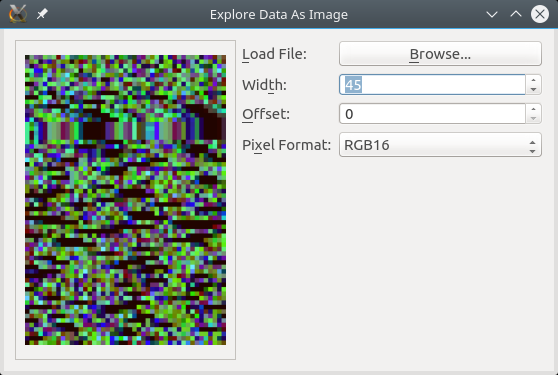
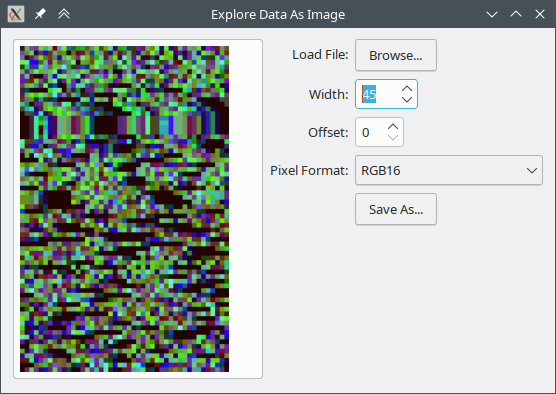
Add "Save As..." button

diff --git a/pixmap_prober.py b/pixmap_prober.py
@@ -62,6 +62,7 @@ class MainWin(QWidget, Ui_ImgExperimentDialog):
         self.raw_data = b''
         self.pixmap = QPixmap()
         self.btn_browse.clicked.connect(self.cb_browse)
+        self.btn_save.clicked.connect(self.cb_save)
 
         self.spin_width.valueChanged.connect(self.cb_update_img)
         self.spin_offset.valueChanged.connect(self.cb_update_img)
@@ -74,6 +75,7 @@ class MainWin(QWidget, Ui_ImgExperimentDialog):
             self.spin_width.setEnabled(True)
             self.spin_offset.setEnabled(True)
             self.combo_format.setEnabled(True)
+            self.btn_save.setEnabled(True)
             with open(fname[0], 'rb') as fobj:
                 self.raw_data = fobj.read()
                 self.cb_update_img(reset_width=True)
@@ -101,6 +103,13 @@ class MainWin(QWidget, Ui_ImgExperimentDialog):
             self.img_display.setPixmap(pix.scaled(
                 self.img_display.size(),
                 Qt.KeepAspectRatio, Qt.SmoothTransformation))
+
+    def cb_save(self):
+        """Callback for the Save button"""
+        fname = QFileDialog.getSaveFileName(self, "Save Image As...", "",
+            "PNG (*.png)")
+        if fname and fname[0]:
+            self.pixmap.save(fname[0], "PNG")
 
     def cb_update_img(self, event=None, reset_width=False):
         """Called by anything which changes how the bytes get rendered"""

diff --git a/mainwin.py b/mainwin.py
@@ -61,6 +61,14 @@ class Ui_ImgExperimentDialog(object):
         self.combo_format.setEnabled(False)
         self.combo_format.setObjectName("combo_format")
         self.formLayout.setWidget(3, QtWidgets.QFormLayout.FieldRole, self.combo_format)
+        self.Label = QtWidgets.QLabel(ImgExperimentDialog)
+        self.Label.setText("")
+        self.Label.setObjectName("Label")
+        self.formLayout.setWidget(4, QtWidgets.QFormLayout.LabelRole, self.Label)
+        self.btn_save = QtWidgets.QPushButton(ImgExperimentDialog)
+        self.btn_save.setEnabled(False)
+        self.btn_save.setObjectName("btn_save")
+        self.formLayout.setWidget(4, QtWidgets.QFormLayout.FieldRole, self.btn_save)
         self.horizontalLayout.addLayout(self.formLayout)
         self.lbl_browse.setBuddy(self.btn_browse)
         self.lbl_width.setBuddy(self.spin_width)
@@ -78,4 +86,5 @@ class Ui_ImgExperimentDialog(object):
         self.lbl_width.setText(_translate("ImgExperimentDialog", "Wid&th:"))
         self.lbl_offset.setText(_translate("ImgExperimentDialog", "&Offset:"))
         self.lbl_format.setText(_translate("ImgExperimentDialog", "Pi&xel Format:"))
+        self.btn_save.setText(_translate("ImgExperimentDialog", "Save As..."))
 
